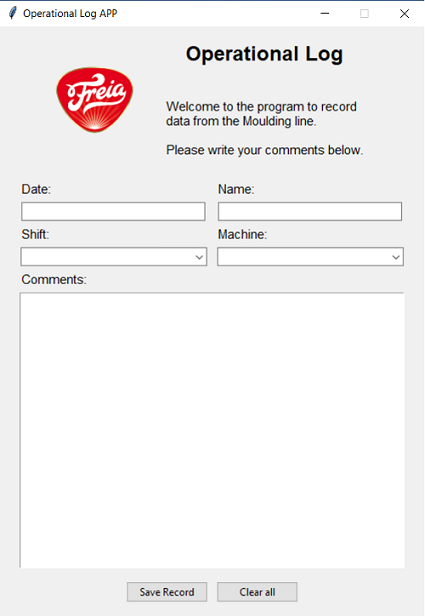
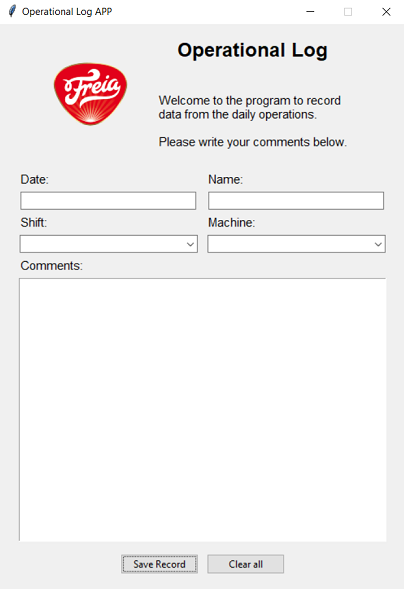
Create backend and update app GUI

diff --git a/Operational_log_app/backend.py b/Operational_log_app/backend.py
@@ -1,0 +1,35 @@
+import sqlite3
+
+class Database:
+    """Create a database to handle CRUD operations for the operational log"""
+
+    def __init__(self, db):
+        self.conn=sqlite3.connect(db)
+        self.cur=self.conn.cursor()
+        self.cur.execute("CREATE TABLE IF NOT EXISTS op_log (id INTEGER PRIMARY KEY, date text, name text, shift text, machine text, comments text)")
+        self.conn.commit()
+
+    def insert(self, date, name, shift, machine, comments):
+        self.cur.execute("INSERT INTO op_log VALUES (NULL,?,?,?,?,?)",(date, name, shift, machine, comments))
+        self.conn.commit()
+
+    def view(self):
+        self.cur.execute("SELECT * FROM op_log")
+        rows=self.cur.fetchall()
+        return rows
+
+    def search(self, date="", name="", shift="", machine="", comments=""):
+        self.cur.execute("SELECT * FROM op_log WHERE date=? OR name=? OR shift=? OR machine=? OR comments=?", (date, name, shift, machine, comments))
+        rows=self.cur.fetchall()
+        return rows
+
+    def delete(self, id):
+        self.cur.execute("DELETE FROM op_log WHERE id=?",(id,))
+        self.conn.commit()
+
+    def update(self, id, date, name, shift, machine, comments):
+        self.cur.execute("UPDATE log_op SET date=?, name=?, shift=?, machine=?, comments=? WHERE id=?",(date, name, shift, machine, comments,id))
+        self.conn.commit()
+
+    def __del__(self):
+        self.conn.close()

diff --git a/Operational_log_app/operational_log_app.py b/Operational_log_app/operational_log_app.py
@@ -22,7 +22,7 @@ class MainApplication:
         ttk.Label(self.frame_header, image=self.logo).grid(row=0, column=0, rowspan=2)
         ttk.Label(self.frame_header, text = 'Operational Log', style = 'Header.TLabel').grid(row=0, column=1, padx=15, pady=15)
         ttk.Label(self.frame_header, wraplength = 250,
-                  text = ('Welcome to the program to record data from the Moulding line.\n\n'
+                  text = ('Welcome to the program to record data from the daily operations.\n\n'
                   'Please write your comments below.')).grid(row=1, column=1, padx=20, pady=20)
         
         #Lower frame for handling the content and save records
@@ -65,7 +65,7 @@ class MainApplication:
         print(f'Machine: {self.entry_machine.get()}')
         print(f'Comments: {self.text_comments.get(1.0, tk.END)}')
         self.clear()
-        messagebox.showinfo(title = 'Moulding Line Log', message = 'Record saved!')
+        messagebox.showinfo(title = 'Operational Log', message = 'Record saved!')
     
     def clear(self):
         """Clear the content from the entry fields"""
